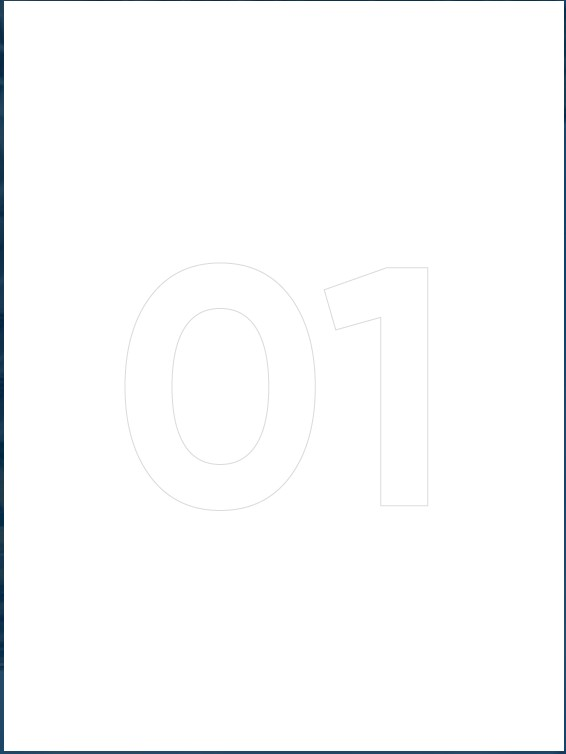
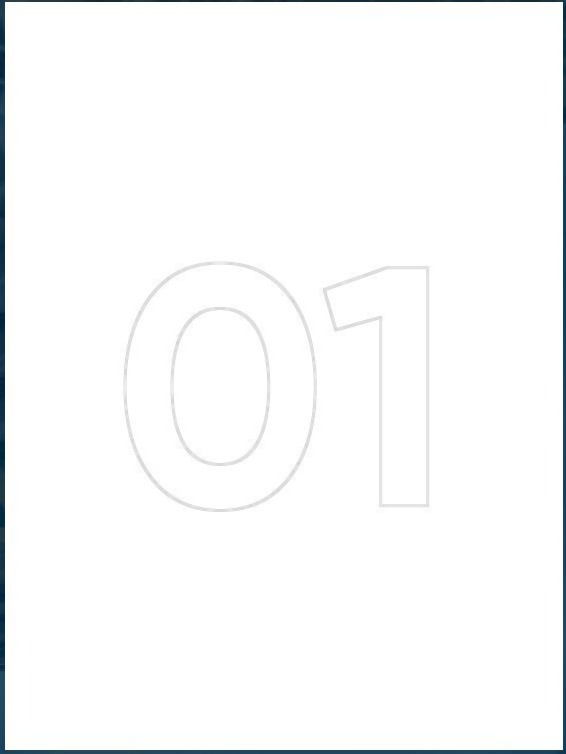
feat: mobile static methodology cards, thicker step numerals, ETAPAS title
Below md, the four "Etapas" cards no longer rely on hover/tap to reveal
their description — the flip interaction doesn't map to touch, and
anyone who only scrolls never triggered it. Each card now shows the
back photo + navy overlay with the icon, title and description all
static in one layout; >=md keeps the original hover-flip untouched
(verified back-layer opacity still reaches 1 on hover).

Thickened the outlined 01-04 numeral watermark baked into the front
card photos (MinFilter(3) erosion on the existing artwork rather than
redrawing it, to keep the exact original shape/font/position) — this
affects wherever those four images render, which today is the >=md
front-card view specifically, since the new mobile layout above no
longer shows the front card at all.

Added an "ETAPAS"/"STAGES" title above the grid using SectionHeading's
existing dark (white-on-navy) variant, matching the site's established
heading component instead of one-off styling.

diff --git a/src/components/MethodologyGrid.tsx b/src/components/MethodologyGrid.tsx
@@ -25,28 +25,58 @@ export default function MethodologyGrid({ steps }: Props) {
         const Icon = step.icon;
         return (
           <div key={step.title} className="px-[10px] py-[10px]">
-            <FlipBox
-              label={step.title}
-              frontImage={step.frontImage}
-              backImage={step.backImage}
-              front={
-                <>
-                  <div className="mb-[20px] flex justify-center">
-                    <Icon className="text-[50px] text-primary" />
+            {/* >=md: unchanged hover-flip. Below md, hover doesn't exist and
+                tap-to-reveal meant anyone who only scrolls never sees the
+                description — so mobile gets a single static card instead
+                (test case for the rest of the site's flip-boxes). */}
+            <div className="hidden md:block">
+              <FlipBox
+                label={step.title}
+                frontImage={step.frontImage}
+                backImage={step.backImage}
+                front={
+                  <>
+                    <div className="mb-[20px] flex justify-center">
+                      <Icon className="text-[50px] text-primary" />
+                    </div>
+                    <h3 className="font-heading text-[21px] font-semibold leading-none text-heading">
+                      {step.title}
+                    </h3>
+                  </>
+                }
+                back={
+                  <div className="font-sans text-[14px] leading-[1.8] text-white">
+                    {step.items.map((item) => (
+                      <p key={item}>{item}</p>
+                    ))}
                   </div>
-                  <h3 className="font-heading text-[21px] font-semibold leading-none text-heading">
-                    {step.title}
-                  </h3>
-                </>
-              }
-              back={
-                <div className="font-sans text-[14px] leading-[1.8] text-white">
+                }
+              />
+            </div>
+
+            <div
+              className="relative flex flex-col items-center bg-cover bg-center bg-no-repeat p-[35px] text-center md:hidden"
+              style={{ backgroundImage: `url(${step.backImage})` }}
+            >
+              <span
+                aria-hidden="true"
+                className="absolute inset-0"
+                style={{ backgroundColor: "rgba(0, 41, 75, 0.24)" }}
+              />
+              <div className="relative">
+                <div className="mb-[20px] flex justify-center">
+                  <Icon className="text-[50px] text-white" />
+                </div>
+                <h3 className="font-heading text-[21px] font-semibold leading-none text-white">
+                  {step.title}
+                </h3>
+                <div className="mt-[20px] font-sans text-[14px] leading-[1.8] text-white">
                   {step.items.map((item) => (
                     <p key={item}>{item}</p>
                   ))}
                 </div>
-              }
-            />
+              </div>
+            </div>
           </div>
         );
       })}

diff --git a/src/app/page.tsx b/src/app/page.tsx
@@ -221,9 +221,12 @@ export default function HomePage() {
         className="bg-cover bg-center bg-no-repeat pb-[70px] pt-[80px] dt:bg-fixed dt:pb-[90px] dt:pt-[110px]"
         style={{ backgroundImage: "url(/images/footer-base-core-sales.webp)" }}
       >
-        {/* Inner-section grids span the full 1200px container (no 15px inset),
-            so the 10px cell padding yields 280px cards at x=134 like the original. */}
         <div className="container-bc px-0">
+          <div className="px-[15px]">
+            <SectionHeading title="ETAPAS" dark align="center" className="mb-[30px] dt:mb-[45px]" />
+          </div>
+          {/* Inner-section grids span the full 1200px container (no 15px inset),
+              so the 10px cell padding yields 280px cards at x=134 like the original. */}
           <MethodologyGrid steps={methodology} />
         </div>
       </section>

diff --git a/src/app/en/page.tsx b/src/app/en/page.tsx
@@ -219,6 +219,9 @@ export default function HomePageEn() {
         style={{ backgroundImage: "url(/images/footer-base-core-sales.webp)" }}
       >
         <div className="container-bc px-0">
+          <div className="px-[15px]">
+            <SectionHeading title="STAGES" dark align="center" className="mb-[30px] dt:mb-[45px]" />
+          </div>
           <MethodologyGrid steps={methodology} />
         </div>
       </section>
